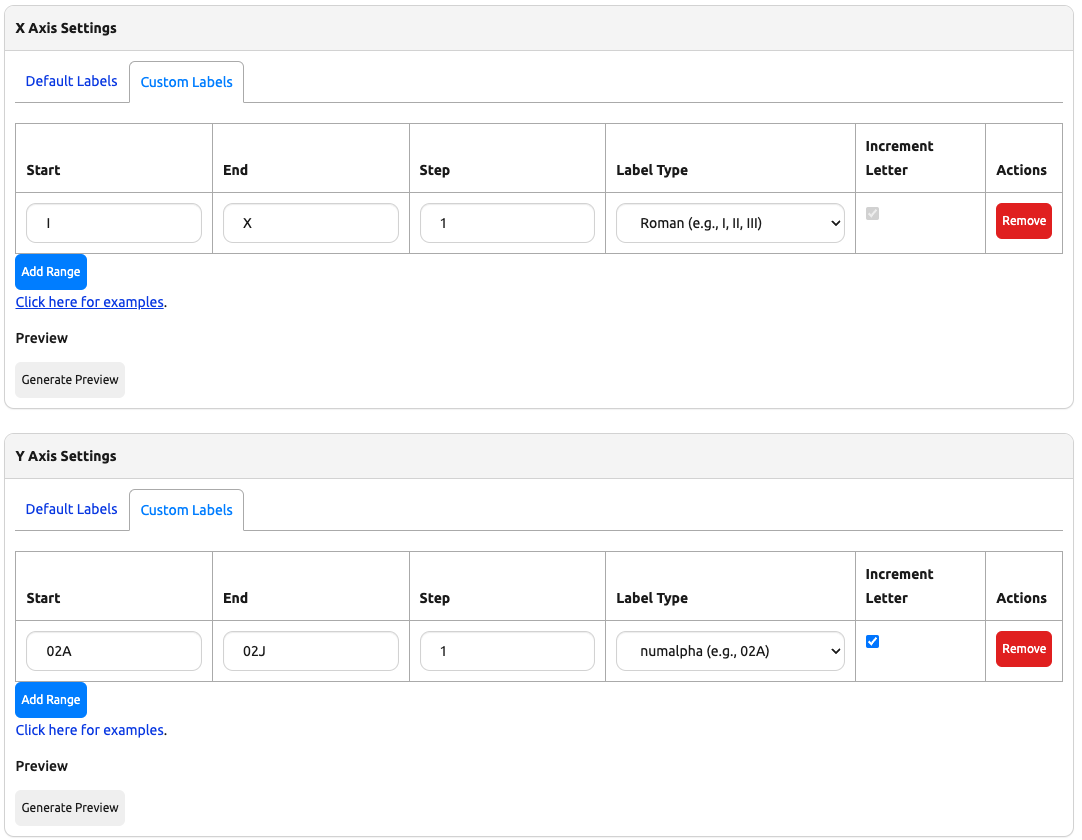
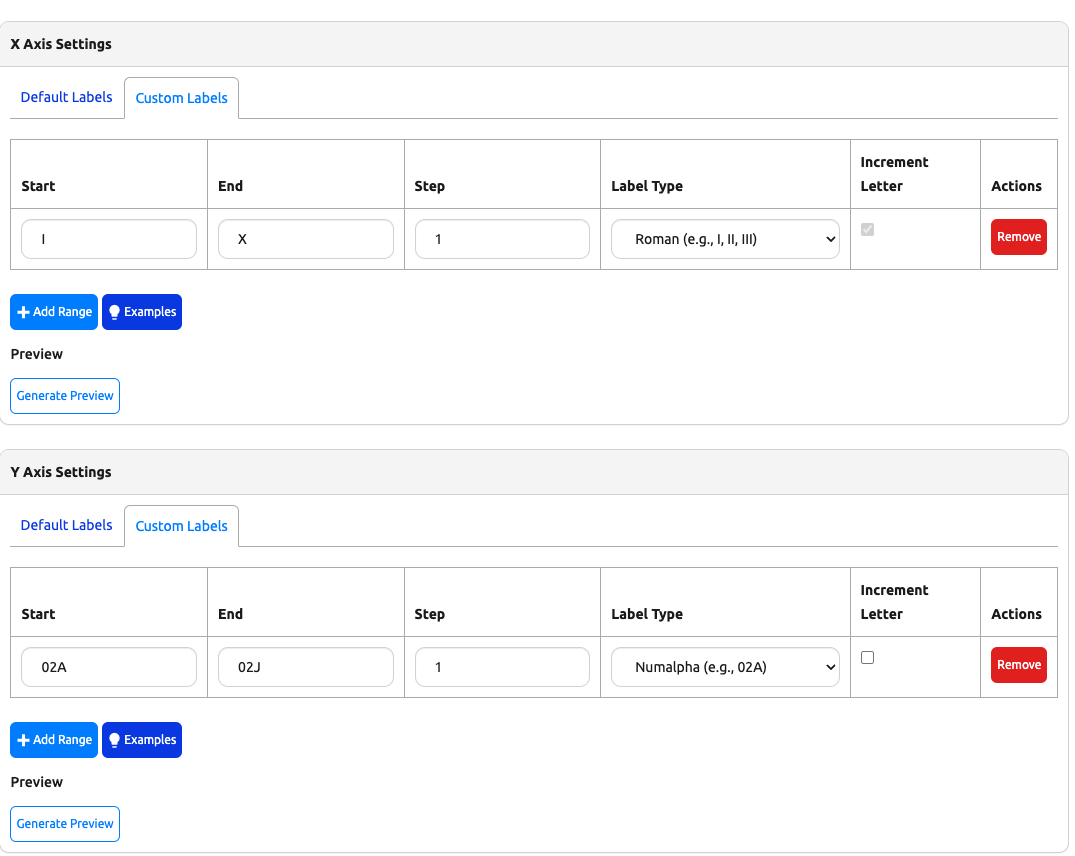
modifying button types - reordering choices - updating images.

diff --git a/nautobot_floor_plan/templates/nautobot_floor_plan/floorplan_create.html b/nautobot_floor_plan/templates/nautobot_floor_plan/floorplan_create.html
@@ -1,6 +1,6 @@
 {% extends 'generic/object_create.html' %}
 {% load static %}
-
+{% load buttons %}
 {% load form_helpers %}
 {% load seed_helpers %}
 
@@ -25,24 +25,24 @@
     <div class="panel-body">
         <div class="nav-tabs-custom">
             <ul class="nav nav-tabs" role="tablist">
-                <li role="presentation" {% if not form.has_x_custom_labels and not form.errors.x_custom_ranges %}class="active"{% endif %}>
+                <li role="presentation" {% if not form.has_x_custom_labels and not form.x_ranges.errors %}class="active"{% endif %}>
                     <a href="#x-default" aria-controls="x-default" role="tab" data-toggle="tab">Default Labels</a>
                 </li>
-                <li role="presentation" {% if form.has_x_custom_labels or form.errors.x_custom_ranges %}class="active"{% endif %}>
+                <li role="presentation" {% if form.has_x_custom_labels or form.x_ranges.errors %}class="active"{% endif %}>
                     <a href="#x-custom" aria-controls="x-custom" role="tab" data-toggle="tab">Custom Labels</a>
                 </li>
             </ul>
             <div class="tab-content">
                 <!-- Default Labels Tab -->
-                <div role="tabpanel" class="tab-pane {% if not form.has_x_custom_labels and not form.errors.x_custom_ranges %}active{% endif %}" id="x-default">
+                <div role="tabpanel" class="tab-pane {% if not form.has_x_custom_labels and not form.x_ranges.errors %}active{% endif %}" id="x-default">
                     {% for field in form.fieldsets.1.1.tabs.0.1 %}
                         {% render_field form|get_fieldset_field:field %}
                     {% endfor %}
                 </div>
                 <!-- Custom Labels Tab -->
-                <div role="tabpanel" class="tab-pane {% if form.has_x_custom_labels or form.errors.x_custom_ranges %}active{% endif %}" id="x-custom">
+                <div role="tabpanel" class="tab-pane {% if form.has_x_custom_labels or form.x_ranges.errors %}active{% endif %}" id="x-custom">
                     
-                    
+
                     {{ form.x_ranges.management_form }}
                     <div class="table-responsive">
                         <table class="table table-bordered table-sm">
@@ -108,12 +108,17 @@
                             </tbody>
                         </table>
                     </div>
-                    <button type="button" id="add-x-range" class="btn btn-primary btn-sm mt-2">Add Range</button>
-                    <div><a href="#" data-toggle="modal" data-target="#exampleModal">Click here for examples</a>.</div>
+                    <br>
+                    <button type="button" id="add-x-range" class="btn btn-primary btn-sm mt-2">
+                        <span class="mdi mdi-plus-thick" aria-hidden="true"></span> Add Range
+                    </button>
+                    <button type="button" class="btn btn-info btn-sm mt-2" data-toggle="modal" data-target="#exampleModal">
+                        <span class="mdi mdi-lightbulb" aria-hidden="true"></span> Examples
+                    </button>
                     <div id="x-preview-section" class="mt-3">
                         <h5>Preview</h5>
                         <div id="x-preview"></div>
-                        <button type="button" id="generate-x-preview" class="btn btn-secondary btn-sm">Generate Preview</button>
+                        <button type="button" id="generate-x-preview" class="btn btn-default btn-sm">Generate Preview</button>
                     </div>
                 </div>
             </div>
@@ -129,22 +134,22 @@
     <div class="panel-body">
         <div class="nav-tabs-custom">
             <ul class="nav nav-tabs" role="tablist">
-                <li role="presentation" {% if not form.has_y_custom_labels and not form.errors.y_custom_ranges %}class="active"{% endif %}>
+                <li role="presentation" {% if not form.has_y_custom_labels and not form.y_ranges.errors%}class="active"{% endif %}>
                     <a href="#y-default" aria-controls="y-default" role="tab" data-toggle="tab">Default Labels</a>
                 </li>
-                <li role="presentation" {% if form.has_y_custom_labels or form.errors.y_ranges %}class="active"{% endif %}>
+                <li role="presentation" {% if form.has_y_custom_labels or form.y_ranges.errors %}class="active"{% endif %}>
                     <a href="#y-custom" aria-controls="y-custom" role="tab" data-toggle="tab">Custom Labels</a>
                 </li>
             </ul>
             <div class="tab-content">
                 <!-- Default Labels Tab -->
-                <div role="tabpanel" class="tab-pane {% if not form.has_y_custom_labels and not form.errors.y_custom_ranges %}active{% endif %}" id="y-default">
+                <div role="tabpanel" class="tab-pane {% if not form.has_y_custom_labels and not form.y_ranges.errors %}active{% endif %}" id="y-default">
                     {% for field in form.fieldsets.2.1.tabs.0.1 %}
                         {% render_field form|get_fieldset_field:field %}
                     {% endfor %}
                 </div>
                 <!-- Custom Labels Tab -->
-                <div role="tabpanel" class="tab-pane {% if form.has_y_custom_labels or form.errors.y_ranges %}active{% endif %}" id="y-custom">
+                <div role="tabpanel" class="tab-pane {% if form.has_y_custom_labels or form.y_ranges.errors %}active{% endif %}" id="y-custom">
                     {{ form.y_ranges.management_form }}
                     <div class="table-responsive">
                         <table class="table table-bordered table-sm">
@@ -210,12 +215,17 @@
                             </tbody>
                         </table>
                     </div>
-                    <button type="button" id="add-y-range" class="btn btn-primary btn-sm mt-2">Add Range</button>
-                    <div><a href="#" data-toggle="modal" data-target="#exampleModal">Click here for examples</a>.</div>
+                    <br>
+                    <button type="button" id="add-y-range" class="btn btn-primary btn-sm mt-2">
+                        <span class="mdi mdi-plus-thick" aria-hidden="true"></span> Add Range
+                    </button>
+                    <button type="button" class="btn btn-info btn-sm mt-2" data-toggle="modal" data-target="#exampleModal">
+                        <span class="mdi mdi-lightbulb" aria-hidden="true"></span> Examples
+                    </button>                    
                     <div id="y-preview-section" class="mt-3">
                         <h5>Preview</h5>
                         <div id="y-preview"></div>
-                        <button type="button" id="generate-y-preview" class="btn btn-secondary btn-sm">Generate Preview</button>
+                        <button type="button" id="generate-y-preview" class="btn btn-default btn-sm">Generate Preview</button>
                     </div>
                 </div>
             </div>

diff --git a/nautobot_floor_plan/choices.py b/nautobot_floor_plan/choices.py
@@ -32,14 +32,14 @@ class CustomAxisLabelsChoices(ChoiceSet):
     NUMBERS = "numbers"
 
     CHOICES = (
+        (NUMBERS, "Numbers (e.g. 1, 2, 3)"),
+        (LETTERS, "Letters (e.g., A, B, C)"),
+        (NUMALPHA, "Numalpha (e.g., 02A)"),
+        (ALPHANUMERIC, "Alphanumeric (e.g., A01, B02)"),
         (ROMAN, "Roman (e.g., I, II, III)"),
         (GREEK, "Greek (e.g., α, β, γ)"),
         (BINARY, "Binary (e.g., 1, 10, 11)"),
         (HEX, "Hexadecimal (e.g., 1, A, F)"),
-        (NUMALPHA, "numalpha (e.g., 02A)"),
-        (LETTERS, "Letters (e.g., A, B, C)"),
-        (ALPHANUMERIC, "Alphanumeric (e.g., A01, B02)"),
-        (NUMBERS, "Numbers (e.g. 1, 2, 3)"),
     )
 
 
